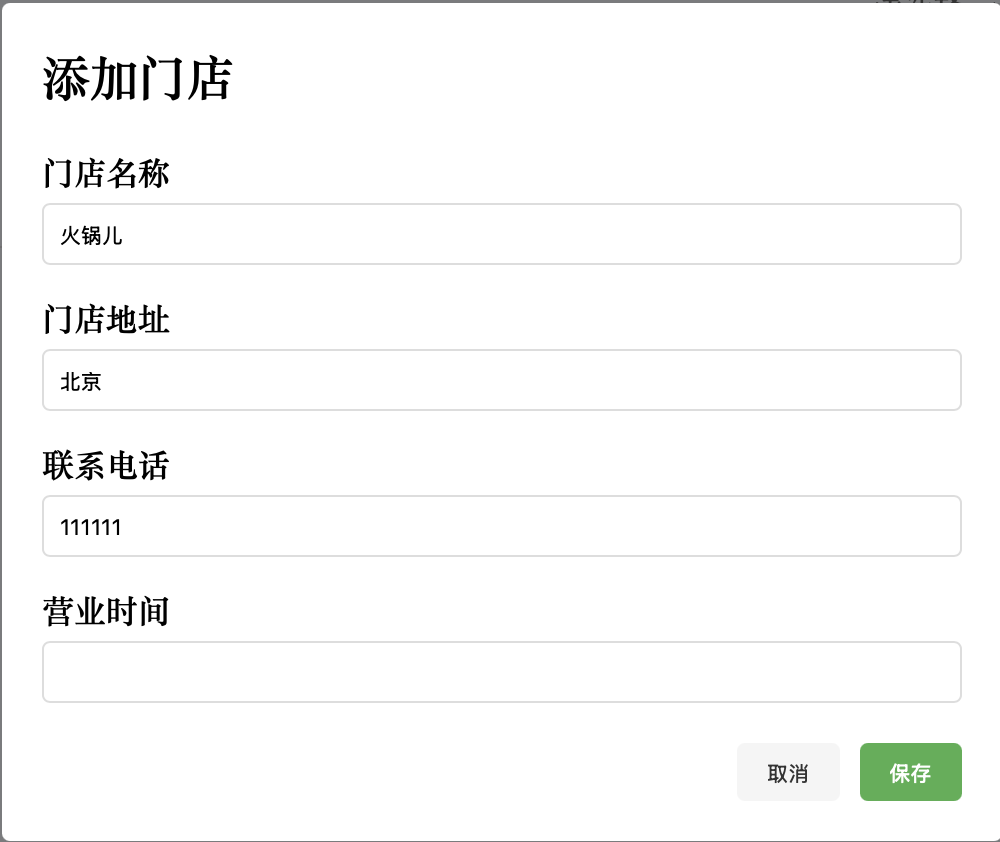
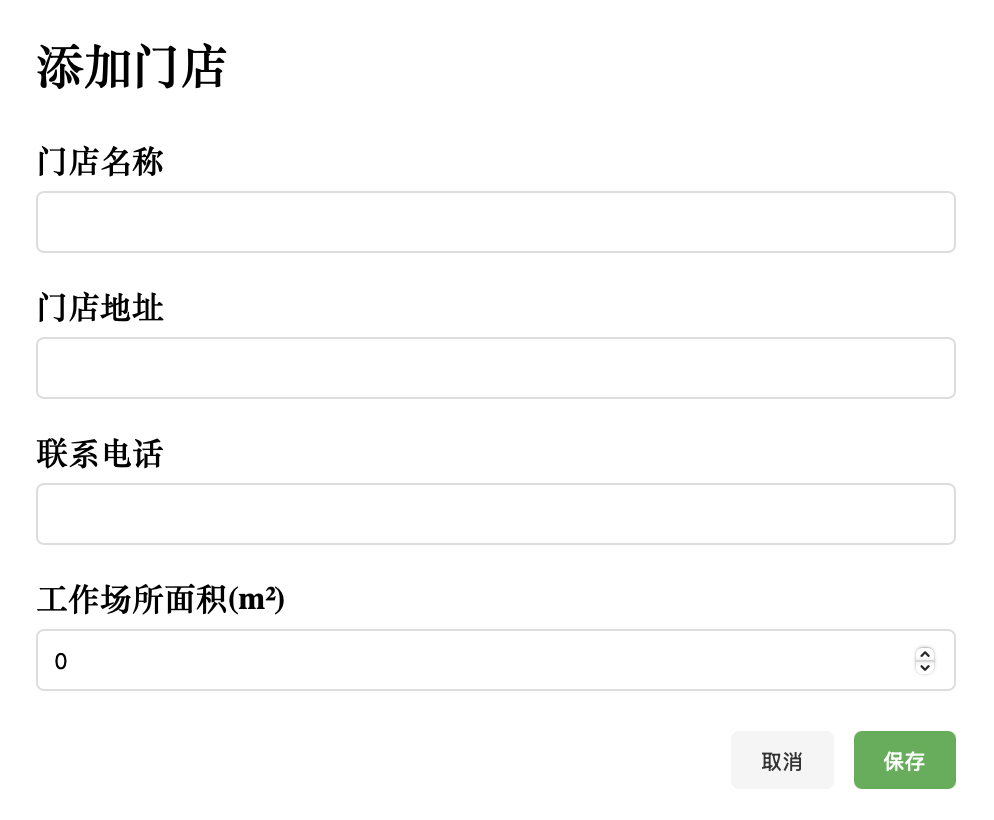
refactor(StoreManagement): 移除营业时间字段并添加工作场所面积字段
为了简化门店管理表单，移除了不必要的营业时间字段，并添加了工作场所面积字段以更好地管理门店信息

diff --git a/src/client/views/store/StoreManagement.vue b/src/client/views/store/StoreManagement.vue
@@ -9,7 +9,6 @@ interface Store {
   address: string
   area: number
   phone?: string
-  businessHours?: string
   employeeCount?: number
 }
 
@@ -29,7 +28,7 @@ const newStore = reactive({
   name: '',
   address: '',
   phone: '',
-  businessHours: '',
+  area: 0
 })
 
 // 编辑门店表单数据
@@ -37,8 +36,7 @@ const editingStore = reactive({
   id: '',
   name: '',
   address: '',
-  phone: '',
-  businessHours: '',
+  phone: ''
 })
 
 // 加载门店数据
@@ -64,8 +62,7 @@ async function addStore() {
       name: newStore.name,
       address: newStore.address,
       area: 0,
-      phone: newStore.phone,
-      businessHours: newStore.businessHours,
+      phone: newStore.phone
     }
 
     const response = await storeStore.createStore(storeToAdd)
@@ -77,7 +74,7 @@ async function addStore() {
       name: '',
       address: '',
       phone: '',
-      businessHours: '',
+
     })
   }
   catch (error) {
@@ -99,7 +96,7 @@ function prepareEditStore() {
       address: selectedStore.value.address,
       area: selectedStore.value.area,
       phone: selectedStore.value.phone,
-      businessHours: selectedStore.value.businessHours,
+
     })
     showEditStoreForm.value = true
   }
@@ -112,8 +109,7 @@ async function updateStore() {
       name: editingStore.name,
       address: editingStore.address,
       area: selectedStore.value?.area || 0,
-      phone: editingStore.phone,
-      businessHours: editingStore.businessHours,
+      phone: editingStore.phone
     } as Store)
 
     const index = stores.value.findIndex(s => s.id === editingStore.id)
@@ -205,10 +201,7 @@ async function deleteStore() {
             <label>联系电话:</label>
             <span>{{ selectedStore.phone }}</span>
           </div>
-          <div class="info-group">
-            <label>营业时间:</label>
-            <span>{{ selectedStore.businessHours }}</span>
-          </div>
+          
           <div class="info-group">
             <label>员工数量:</label>
             <span>{{ selectedStore.employeeCount }}</span>
@@ -244,9 +237,10 @@ async function deleteStore() {
             <input id="phone" v-model="newStore.phone" type="text" required>
           </div>
           <div class="form-group">
-            <label for="businessHours">营业时间</label>
-            <input id="businessHours" v-model="newStore.businessHours" type="text" required>
+            <label for="area">工作场所面积(m²)</label>
+            <input id="area" v-model="newStore.area" type="number" min="0" required>
           </div>
+          
           <div class="form-actions">
             <button type="button" @click="showAddStoreForm = false">
               取消
@@ -276,10 +270,7 @@ async function deleteStore() {
             <label for="edit-phone">联系电话</label>
             <input id="edit-phone" v-model="editingStore.phone" type="text" required>
           </div>
-          <div class="form-group">
-            <label for="edit-businessHours">营业时间</label>
-            <input id="edit-businessHours" v-model="editingStore.businessHours" type="text" required>
-          </div>
+          
           <div class="form-actions">
             <button type="button" @click="showEditStoreForm = false">
               取消
